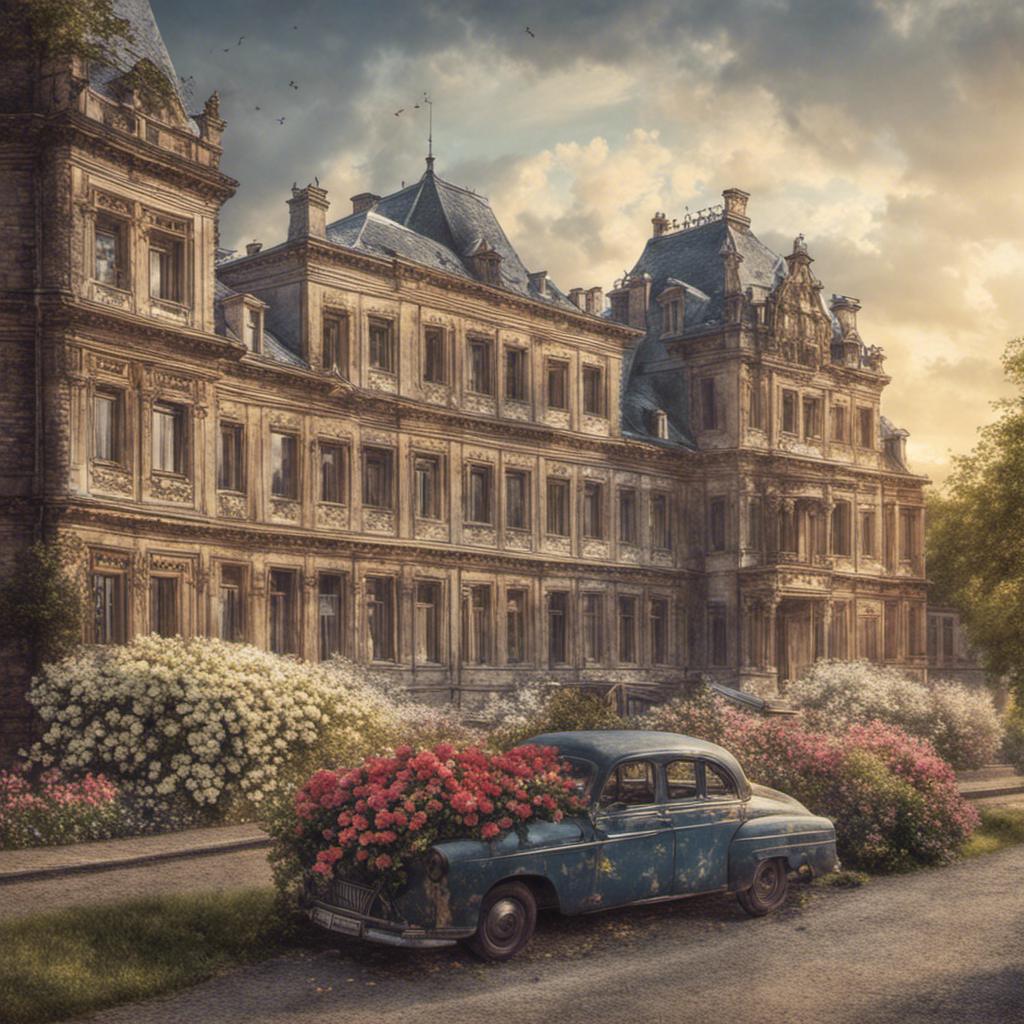
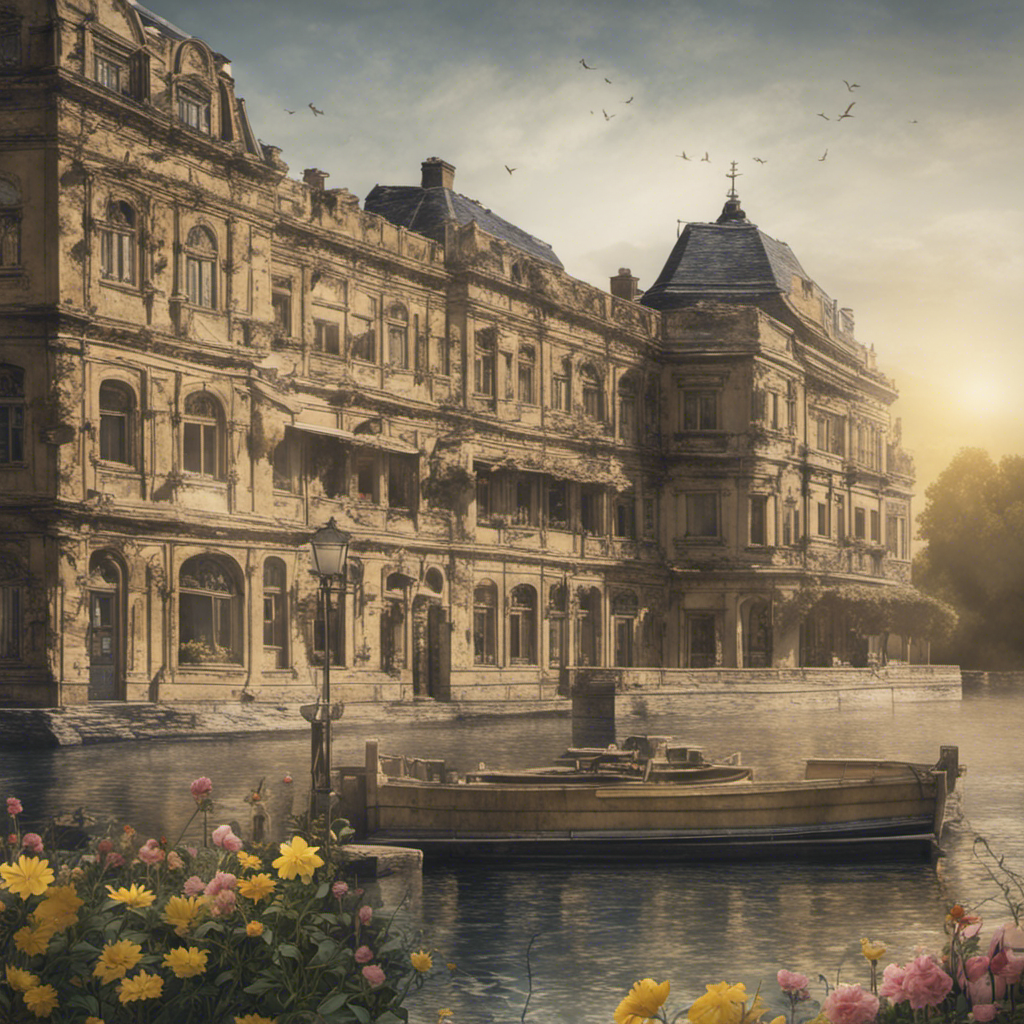
changed to huggingface

diff --git a/huggingface-test.py b/huggingface-test.py
@@ -1,0 +1,15 @@
+import torch
+from diffusers import StableDiffusionXLImg2ImgPipeline
+from diffusers.utils import load_image
+
+pipe = StableDiffusionXLImg2ImgPipeline.from_pretrained(
+    "stabilityai/stable-diffusion-xl-refiner-1.0", torch_dtype=torch.float16, variant="fp16", use_safetensors=True
+)
+pipe = pipe.to("cuda")
+url = "https://huggingface.co/datasets/patrickvonplaten/images/resolve/main/aa_xl/000000009.png"
+
+init_image = load_image(url).convert("RGB")
+prompt = "a photo of an astronaut riding a horse on mars"
+image = pipe(prompt, image=init_image).images
+
+image.save("out/huggingface-test.png")

diff --git a/stabilityapi-test.py b/stabilityapi-test.py
@@ -22,9 +22,9 @@ response = requests.post(
         "init_image": open("./base_images/oldpalacestability.png", "rb")
     },
     data={
-        "image_strength": 0.35,
+        "image_strength": 0.4,
         "init_image_mode": "IMAGE_STRENGTH",
-        "text_prompts[0][text]": "covered with flowers, nostalgic, postal card, #D6D46D dominant",
+        "text_prompts[0][text]": "frame the picture with flowers, nostalgic, yellow dominant, advertisement, leaflet",
         "cfg_scale": 7,
         "samples": 1,
         "steps": 30,
